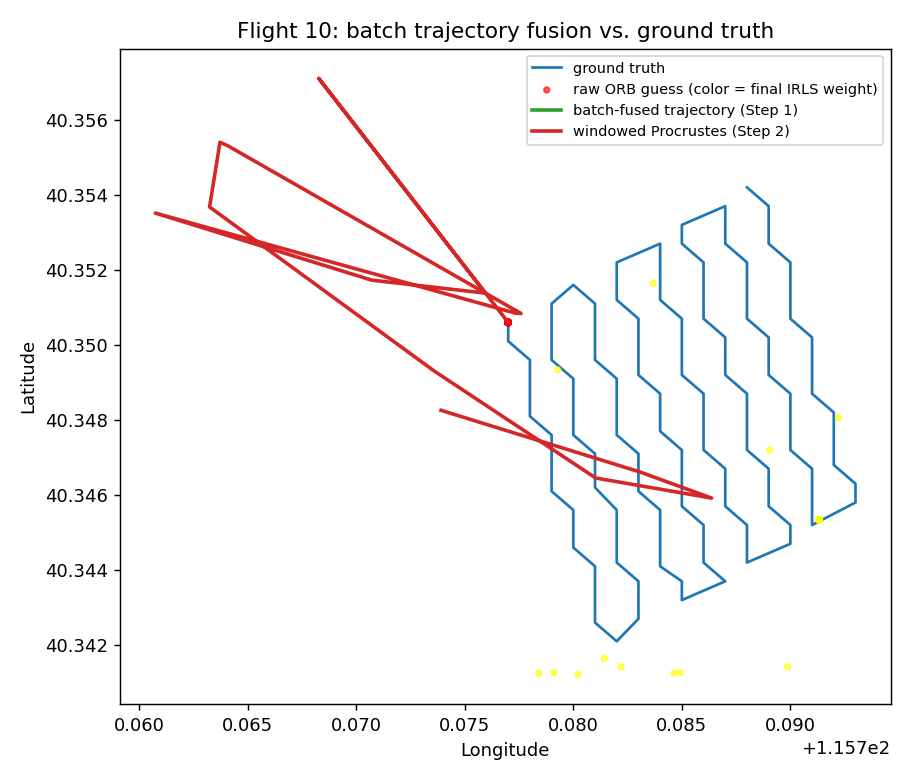
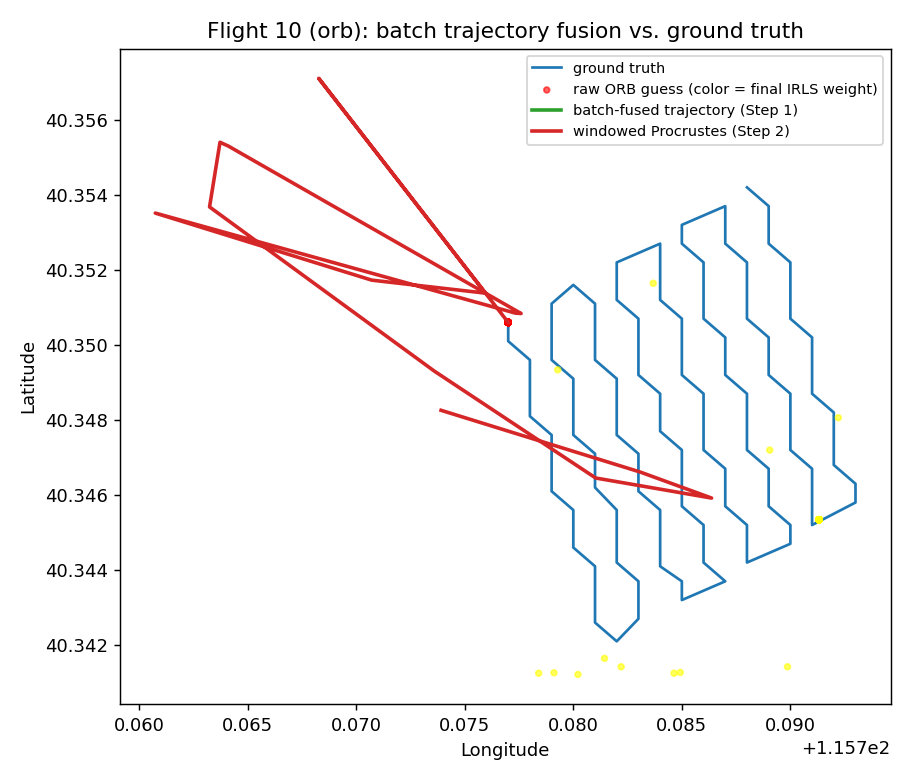
Phase 4: evaluate batch fusion on split_learned_disk's raw matches
Adds --estimator to batch_trajectory_fusion.py (default orb, unchanged
behavior -- regression-verified against every prior recorded Step 1
mean before trusting the new path) so Phase 4's Steps 1/2 can be
re-run against a different Phase 2 config's telemetry instead of only
orb's.

Result: combined Step 1 mean improves 6.4%, Step 2 improves 10.5% vs.
the orb-based baseline, with 8.7-31.8% per-flight gains on 4 of 5
flights. Flight 08 regresses with an inverted mechanism-check
signature (the high-confidence cluster has higher true error than the
low-confidence one) -- plausibly because split_learned_disk's 0.0%
invalid rate feeds the fusion algorithm more, more self-consistent
wrong matches on this content-stale flight than orb's sparser ones
did. First time a Phase 2 improvement has been shown to propagate
into Phase 4's own numbers. Full detail in CLAUDE.md/STRATEGY.md
(local, gitignored).

Changed region(s): [[0.2154, 0.0308, 0.8923, 0.0615]]

diff --git a/scripts/batch_trajectory_fusion.py b/scripts/batch_trajectory_fusion.py
@@ -71,7 +71,12 @@ own documented "deliberate substitution, not a literal implementation").
 Usage:
     source ../CV_IP/cv_env/bin/activate
     python3 scripts/batch_trajectory_fusion.py
+    # Re-run Step 1/2 against a different estimator's raw telemetry (e.g. to check
+    # whether a stronger Phase 2 retrieval+matching combo changes the fusion picture --
+    # see CLAUDE.md's "Investigation Log: split_learned_disk through batch fusion"):
+    python3 scripts/batch_trajectory_fusion.py --estimator split_learned_disk
 """
+import argparse
 import sys
 from pathlib import Path
 
@@ -98,6 +103,10 @@ OUT_DIR = REPO / "Images" / "batch_fusion"
 # discipline (STRATEGY.md Sec 6.1). Held-out flights (02/05/06/07/09/11) deliberately
 # not touched -- reserved for Phase 4's actual gate, not a Step-1 prototype.
 FLIGHTS = ["01", "03", "04", "08", "10"]
+DEFAULT_ESTIMATOR = "orb"       # which telemetry CSV family to fuse -- orb is this
+                                 # script's original, hyperparameter-tuning baseline;
+                                 # override via --estimator to fuse a different Phase 2
+                                 # config's raw matches without retuning anything below
 BANDWIDTH_S = 40.0              # local-regression time bandwidth, tuned on flight 01
 N_ITERS = 15
 TUKEY_C = 4.685                 # standard Tukey biweight tuning constant
@@ -384,9 +393,9 @@ def load_raw_track(gt_path, telemetry_path, max_gap=MAX_FRAME_GAP):
             np.array(gt_lat), np.array(gt_lng))
 
 
-def run_flight(flight):
+def run_flight(flight, estimator=DEFAULT_ESTIMATOR):
     gt_path = CSV_DIR / f"ground_truth_uavvisloc_{flight}.csv"
-    tel_path = CSV_DIR / f"video_telemetry_orb_uavvisloc_uavvisloc_{flight}.csv"
+    tel_path = CSV_DIR / f"video_telemetry_{estimator}_uavvisloc_uavvisloc_{flight}.csv"
 
     frames, t, raw_lat, raw_lng, gt_lat, gt_lng = load_raw_track(gt_path, tel_path)
     lat0, lng0 = gt_lat.mean(), gt_lng.mean()
@@ -413,7 +422,7 @@ def run_flight(flight):
     fused_stats = summarize(fused_err)
     refined_stats = summarize(refined_err)
 
-    print(f"\n{'=' * 90}\nFlight {flight}  (n={len(t)})\n{'=' * 90}")
+    print(f"\n{'=' * 90}\nFlight {flight}  estimator={estimator}  (n={len(t)})\n{'=' * 90}")
     print(f"{'':>22} {'mean':>8} {'median':>8} {'max':>8} {'A@10m':>7} {'A@20m':>7}")
 
     def row(label, s):
@@ -455,18 +464,35 @@ def run_flight(flight):
     ax.plot(refined_lng, refined_lat, "-", color="#d62728", linewidth=2.0,
             label="windowed Procrustes (Step 2)", zorder=5)
     ax.set_xlabel("Longitude"); ax.set_ylabel("Latitude")
-    ax.set_title(f"Flight {flight}: batch trajectory fusion vs. ground truth")
+    ax.set_title(f"Flight {flight} ({estimator}): batch trajectory fusion vs. ground truth")
     ax.legend(loc="best", fontsize=8)
     fig.tight_layout()
-    fig.savefig(OUT_DIR / f"traj_flight{flight}.png", dpi=130)
+    # Keep the default (orb) run's filenames stable -- they're referenced directly
+    # elsewhere in CLAUDE.md -- and only suffix non-default estimators so a
+    # different config's plots don't clobber them.
+    suffix = "" if estimator == DEFAULT_ESTIMATOR else f"_{estimator}"
+    fig.savefig(OUT_DIR / f"traj_flight{flight}{suffix}.png", dpi=130)
     plt.close(fig)
 
     return raw_stats, fused_stats, refined_stats, existing
 
 
 def main():
+    parser = argparse.ArgumentParser(description=__doc__,
+                                      formatter_class=argparse.RawDescriptionHelpFormatter)
+    parser.add_argument("--estimator", default=DEFAULT_ESTIMATOR,
+                         help=f"telemetry CSV family to fuse (default: {DEFAULT_ESTIMATOR})")
+    args = parser.parse_args()
+
+    all_raw, all_fused, all_refined = [], [], []
     for flight in FLIGHTS:
-        run_flight(flight)
+        raw_stats, fused_stats, refined_stats, _ = run_flight(flight, estimator=args.estimator)
+        all_raw.append(raw_stats["mean"]); all_fused.append(fused_stats["mean"]); all_refined.append(refined_stats["mean"])
+
+    print(f"\n{'=' * 90}\nCombined across {FLIGHTS} (mean-of-per-flight-means, estimator={args.estimator})\n{'=' * 90}")
+    print(f"  Raw mean:               {np.mean(all_raw):8.1f}m")
+    print(f"  Batch-fused (Step 1) mean: {np.mean(all_fused):8.1f}m")
+    print(f"  Windowed Procrustes (Step 2) mean: {np.mean(all_refined):8.1f}m")
     print(f"\nPlots written to {OUT_DIR}/")
 
 
